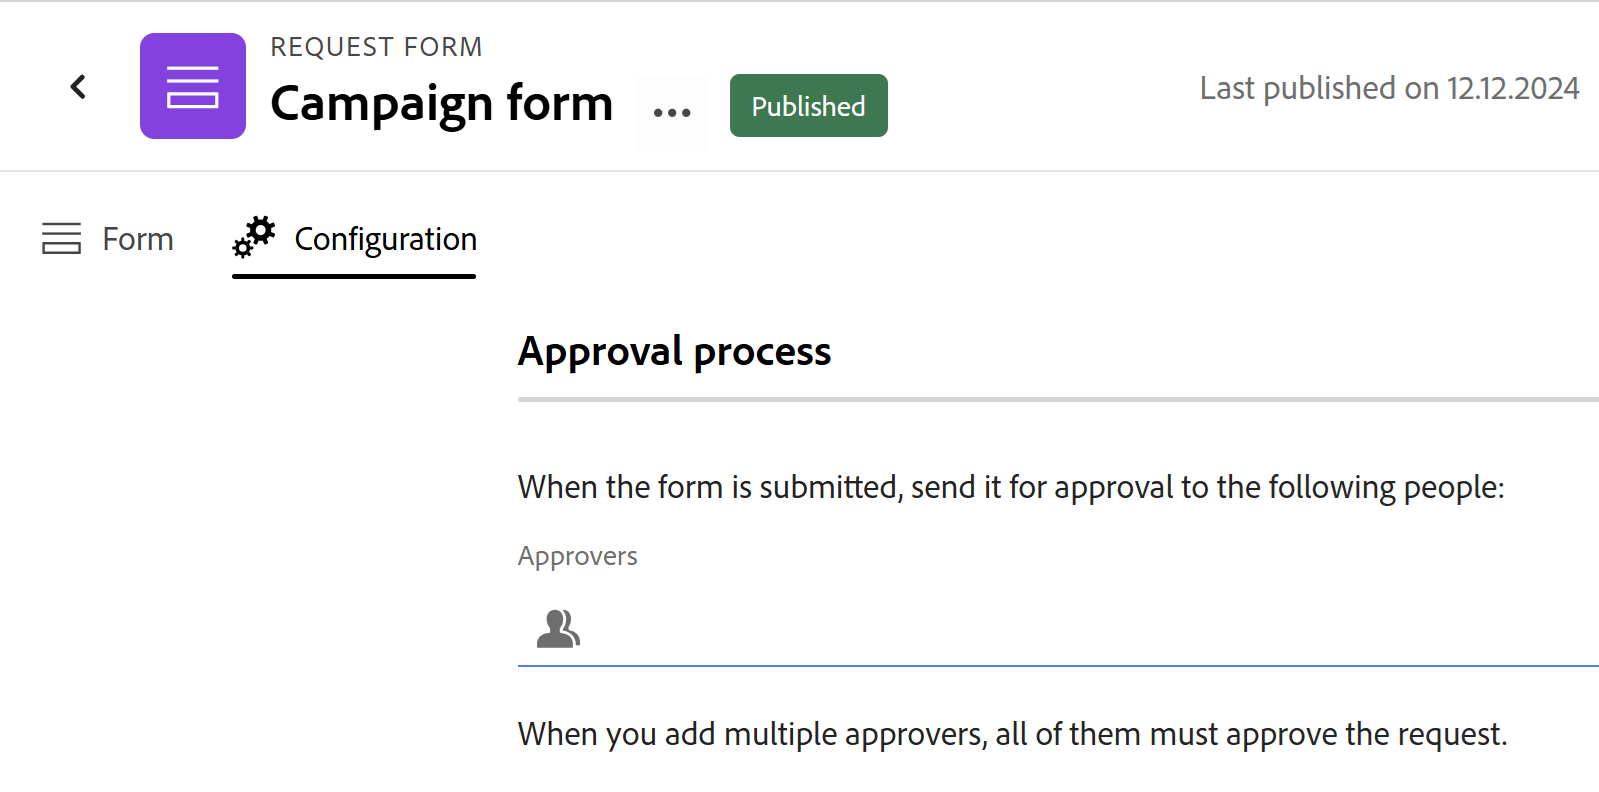
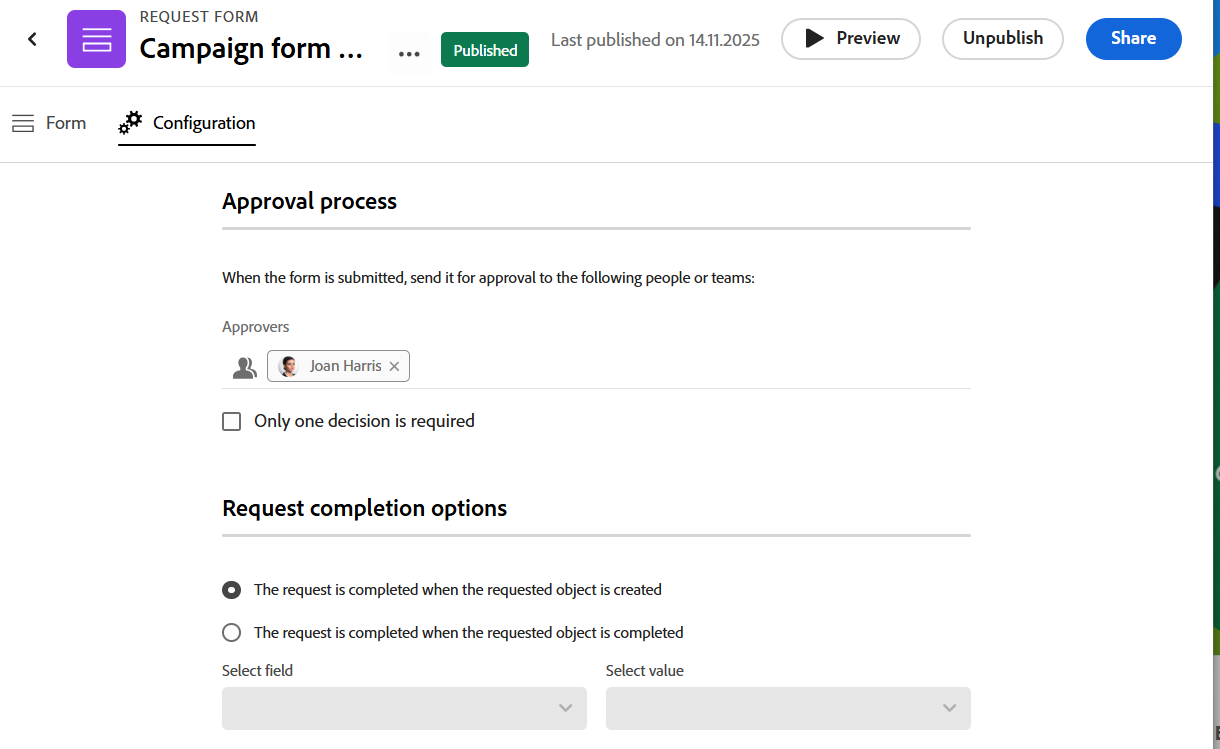
articles

diff --git a/help/quicksilver/planning/requests/add-approval-to-request-form.md b/help/quicksilver/planning/requests/add-approval-to-request-form.md
@@ -84,11 +84,8 @@ For more information about Workfront access requirements, see [Access requiremen
     The **Configuration** area displays.
 
     ![Configuration tab](assets/configuration-tab.png)
-1. In the **Approvers** field, click the drop-down icon and select one or several users or teams in the list
-
-    Or
-
-    Start typing the name of a user or team that you want to set as an approver, then select it when it displays in the list. 
+1. In the **Approvers** field, start typing the name of a user or team that you want to set as an approver, then select it when it displays in the list. 
+1. (Optional and conditional) If you have set more than one approver, and only need one approver to make a decision, enable the **Only one decision is required** option.
 
     <!--most of the Note below is duplicated in the Create a request form article-->
 
@@ -97,11 +94,11 @@ For more information about Workfront access requirements, see [Access requiremen
       >
       >* You can add one or several approvers to a request form.
       >
-      >* If you add more than one approver, all approvers must approve the request before Workfront Planning creates a record.
+      >* If you add more than one approver, and the Only one decision is required option is not enabled, all approvers must approve the request before Workfront Planning creates a record.
       >
       >* If at least one approver rejects the request, the request is rejected and the record is not created. The request remains in the Planning tab of the Submitted section in the Requests area of Workfront.
       >
-      >* All approvers must make a decision before a request is either approved or rejected.
+      >* If you add more than one approver, and the Only one decision is required option is not enabled, all approvers must make a decision before a request is either approved or rejected.
       >
       >* If a team is set as an approver, only one decision is required from the team.
 

diff --git a/help/quicksilver/planning/requests/create-request-form.md b/help/quicksilver/planning/requests/create-request-form.md
@@ -235,13 +235,13 @@ On the Configuration tab, you can set the approval process and configure when a 
 
    <!--below bullet list is duplicated in the Add approval to a request form article-->
 
-   * When you associate a request form with approvers, any new request must first be approved by all approvers before it generates a new record. 
-   * You can add one or several approvers to a request form. 
-   * If at least one approver rejects the request, the request is rejected and the record is not created. 
-   * All approvers must make a decision before a request is either approved or rejected.
+   * You can add one or several approvers to a request form.
+   * If you add more than one approver, and the Only one decision is required option is not enabled, all approvers must approve the request before Workfront Planning creates a record.
+   * If at least one approver rejects the request, the request is rejected and the record is not created. The request remains in the Planning tab of the Submitted section in the Requests area of Workfront.
+   * If you add more than one approver, and the Only one decision is required option is not enabled, all approvers must make a decision before a request is either approved or rejected.
    * If a team is set as an approver, only one decision is required from the team.
 
-      For more information about adding approvals to request forms, see [Add approval to a request form](/help/quicksilver/planning/requests/add-approval-to-request-form.md). 
+   For more information about adding approvals to request forms, see [Add approval to a request form](/help/quicksilver/planning/requests/add-approval-to-request-form.md). 
 
 1. (Conditional) If you want the record to be created after any one of the approvers has approved it, check the **Only one decision is required** checkbox.
 

diff --git a/help/quicksilver/planning/requests/approve-request.md b/help/quicksilver/planning/requests/approve-request.md
@@ -93,7 +93,7 @@ Approvers receive the following notifications about a request pending their appr
 
 To approve a request:
 
-1. Do one of the following: 
+1. (Conditional) If you are using the legacy requesting experience in Workfront, open the request by doing one of the following: 
 
     * If you have access to Workfront Planning and can view at least one workspace, click **Main Menu** ![Dots main menu](assets/dots-menu.png) in the upper-right corner of the screen, or the **Main Menu** ![Lines main menu](assets/lines-menu.png) in the upper-left corner, if available, then click **Requests** > **Submitted** > **Planning**, and click the request with the status of **Pending review** or **In review**.
 
@@ -107,7 +107,7 @@ To approve a request:
     The request page opens in read-only mode.
 
     ![Read-only request page in review status](assets/read-only-reqeust-page-in-review-status.png) 
-
+1. If you are using the new requesting experience in Workfront, click **Main Menu** ![Dots main menu](assets/dots-menu.png) in the upper-right corner of the screen, or the **Main Menu** ![Lines main menu](assets/lines-menu.png) in the upper-left corner, if available, then click **Requests**, and click the request that you want to approve with the status of **Pending review** or **In review**.
 1. (Optional) Click the **Approvals** icon ![Approvals icon](assets/approvals-icon.png) in the upper-right corner of the request to view the approvers.
 1. Click **Review and approve**, then choose one of the following: 
 
